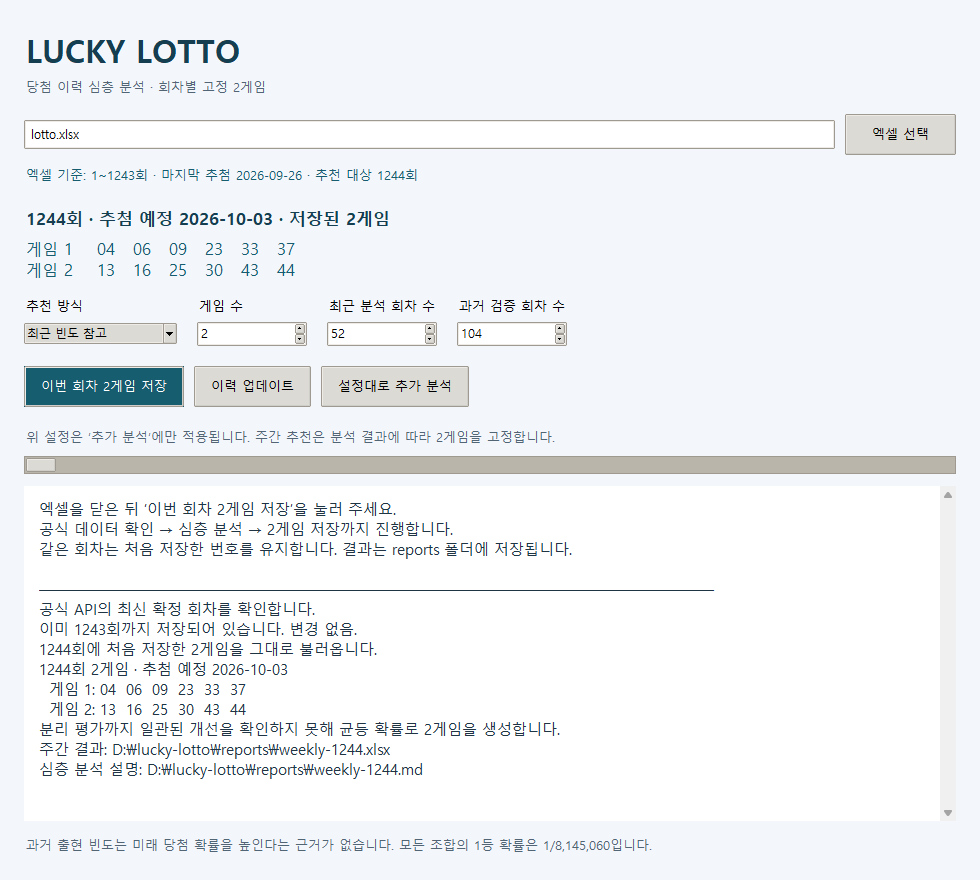
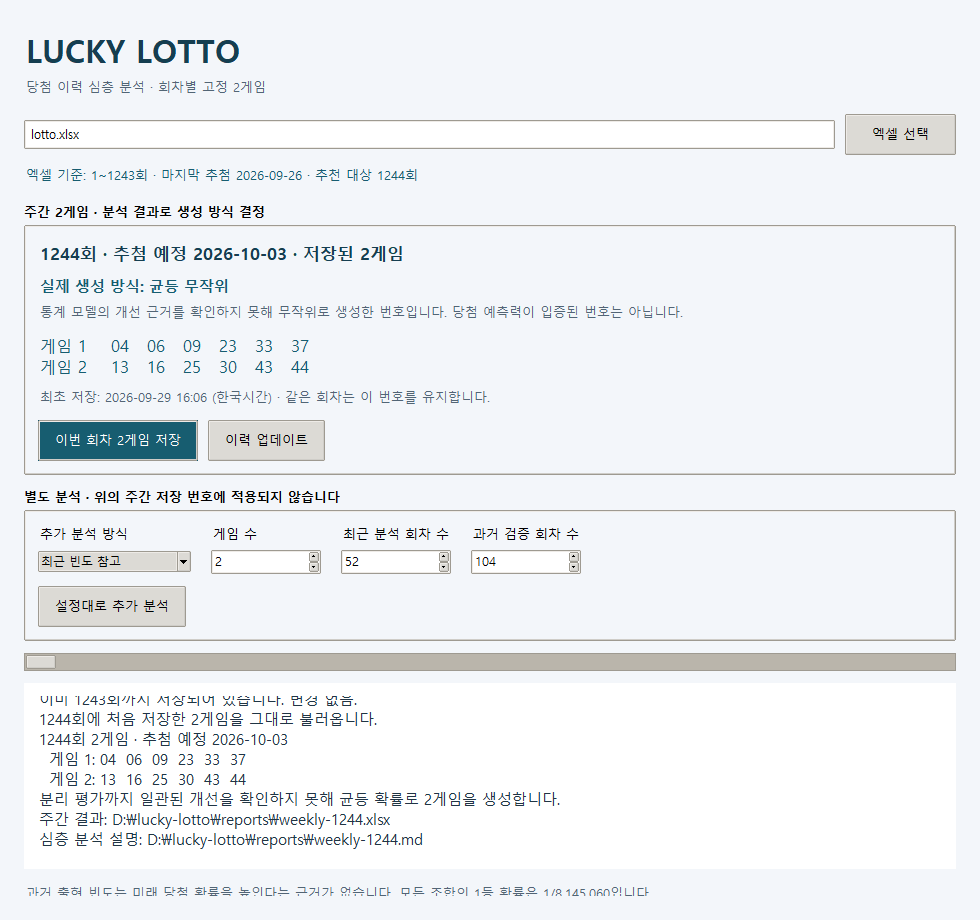
fix: clarify weekly generation and extra analysis settings

diff --git a/lotto_gui.py b/lotto_gui.py
@@ -1,5 +1,6 @@
 """표준 라이브러리 Tkinter로 실행하는 로또 분석 창."""
 
+from datetime import datetime
 from pathlib import Path
 from queue import Empty, Queue
 import threading
@@ -15,13 +16,15 @@ class LottoApp:
         self.events = Queue()
         self.busy = False
         root.title("Lucky Lotto · 당첨 이력과 번호 분석")
-        root.geometry("980x860")
-        root.minsize(880, 760)
+        root.geometry("980x920")
+        root.minsize(880, 840)
         root.configure(bg="#F3F6FA")
         root.protocol("WM_DELETE_WINDOW", self.close)
         style = ttk.Style()
         style.theme_use("clam")
         style.configure("TFrame", background="#F3F6FA")
+        style.configure("TLabelframe", background="#F3F6FA")
+        style.configure("TLabelframe.Label", background="#F3F6FA", font=("맑은 고딕", 10, "bold"))
         style.configure("TLabel", background="#F3F6FA", font=("맑은 고딕", 10))
         style.configure("TButton", font=("맑은 고딕", 10), padding=(14, 9))
         style.configure("Accent.TButton", background="#175D70", foreground="white")
@@ -41,18 +44,34 @@ class LottoApp:
         self.status = tk.StringVar(value="이력을 불러오는 중...")
         ttk.Label(body, textvariable=self.status, foreground="#175D70").pack(anchor="w", pady=(10, 18))
 
+        weekly_box = ttk.LabelFrame(body, text="주간 2게임 · 분석 결과로 생성 방식 결정", padding=12)
+        weekly_box.pack(fill="x", pady=(0, 14))
         self.weekly_title = tk.StringVar(value="이번 회차 2게임")
         self.weekly_numbers = tk.StringVar(value="‘이번 회차 2게임 저장’을 누르면 최신 이력을 확인하고 분석합니다.")
-        ttk.Label(body, textvariable=self.weekly_title, font=("맑은 고딕", 13, "bold"), foreground="#153E50").pack(anchor="w")
-        ttk.Label(body, textvariable=self.weekly_numbers, font=("맑은 고딕", 12), foreground="#175D70").pack(anchor="w", pady=(5, 14))
+        self.weekly_method = tk.StringVar(value="실제 생성 방식: 아직 확인하지 않았습니다.")
+        self.weekly_reason = tk.StringVar(value="통계 모델의 개선 근거가 없으면 균등 무작위로 생성합니다.")
+        self.weekly_saved_at = tk.StringVar(value="같은 회차는 최초 저장 번호를 다시 불러옵니다.")
+        ttk.Label(weekly_box, textvariable=self.weekly_title, font=("맑은 고딕", 13, "bold"), foreground="#153E50").pack(anchor="w")
+        ttk.Label(weekly_box, textvariable=self.weekly_method, font=("맑은 고딕", 11, "bold"), foreground="#175D70").pack(anchor="w", pady=(8, 4))
+        ttk.Label(weekly_box, textvariable=self.weekly_reason, wraplength=780, foreground="#526575").pack(anchor="w")
+        ttk.Label(weekly_box, textvariable=self.weekly_numbers, font=("맑은 고딕", 12), foreground="#175D70").pack(anchor="w", pady=(10, 8))
+        ttk.Label(weekly_box, textvariable=self.weekly_saved_at, foreground="#526575").pack(anchor="w")
+        actions = ttk.Frame(weekly_box)
+        actions.pack(fill="x", pady=(12, 0))
+        self.weekly_button = ttk.Button(actions, text="이번 회차 2게임 저장", style="Accent.TButton", command=self.weekly)
+        self.weekly_button.pack(side="left", padx=(0, 10))
+        self.update_button = ttk.Button(actions, text="이력 업데이트", command=self.update)
+        self.update_button.pack(side="left")
 
-        settings = ttk.Frame(body)
+        extra_box = ttk.LabelFrame(body, text="별도 분석 · 위의 주간 저장 번호에 적용되지 않습니다", padding=12)
+        extra_box.pack(fill="x", pady=(0, 12))
+        settings = ttk.Frame(extra_box)
         settings.pack(fill="x")
         self.mode = tk.StringVar(value=lotto.MODES["recent"])
         self.games = tk.StringVar(value="2")
         self.window = tk.StringVar(value="52")
         self.test_rounds = tk.StringVar(value="104")
-        ttk.Label(settings, text="추천 방식").grid(row=0, column=0, sticky="w", pady=(0, 5))
+        ttk.Label(settings, text="추가 분석 방식").grid(row=0, column=0, sticky="w", pady=(0, 5))
         self.mode_input = ttk.Combobox(settings, textvariable=self.mode, values=list(lotto.MODES.values()), state="readonly", width=19)
         self.mode_input.grid(row=1, column=0, sticky="w", padx=(0, 20))
         self.inputs = [self.path_entry, self.browse, self.mode_input]
@@ -64,21 +83,14 @@ class LottoApp:
             entry.grid(row=1, column=column, sticky="w", padx=(0, 20))
             self.inputs.append(entry)
 
-        actions = ttk.Frame(body)
-        actions.pack(fill="x", pady=20)
-        self.weekly_button = ttk.Button(actions, text="이번 회차 2게임 저장", style="Accent.TButton", command=self.weekly)
-        self.weekly_button.pack(side="left", padx=(0, 10))
-        self.update_button = ttk.Button(actions, text="이력 업데이트", command=self.update)
-        self.update_button.pack(side="left", padx=(0, 10))
-        self.report_button = ttk.Button(actions, text="설정대로 추가 분석", command=self.report)
-        self.report_button.pack(side="left")
+        self.report_button = ttk.Button(extra_box, text="설정대로 추가 분석", command=self.report)
+        self.report_button.pack(anchor="w", pady=(12, 0))
         self.inputs.extend([self.weekly_button, self.update_button, self.report_button])
-        ttk.Label(body, text="위 설정은 ‘추가 분석’에만 적용됩니다. 주간 추천은 분석 결과에 따라 2게임을 고정합니다.", foreground="#526575").pack(anchor="w", pady=(0, 8))
         self.progress = ttk.Progressbar(body, mode="indeterminate")
         self.progress.pack(fill="x", pady=(0, 12))
         self.output = scrolledtext.ScrolledText(body, wrap="word", font=("맑은 고딕", 11),
                                               bg="white", fg="#203544", relief="flat", padx=14, pady=12,
-                                              state="disabled", height=15)
+                                              state="disabled", height=8)
         self.output.pack(fill="both", expand=True)
         ttk.Label(body, text=lotto.NOTICE, wraplength=810, foreground="#526575").pack(anchor="w", pady=(14, 0))
         self.append("엑셀을 닫은 뒤 ‘이번 회차 2게임 저장’을 눌러 주세요.\n공식 데이터 확인 → 심층 분석 → 2게임 저장까지 진행합니다.\n같은 회차는 처음 저장한 번호를 유지합니다. 결과는 reports 폴더에 저장됩니다.\n")
@@ -154,6 +166,23 @@ class LottoApp:
         path = Path(self.path.get())
         self.start(lambda: lotto.create_report(path, games, mode, window, test_rounds=rounds, log=self.log))
 
+    def show_weekly(self, record):
+        from lotto_analysis import MODELS
+
+        evaluation = record["analysis"]["evaluation"]
+        selected = evaluation["selected"]
+        method = "균등 무작위" if selected == "uniform" else f"{MODELS[selected]} 가중 추출"
+        self.weekly_title.set(f"{record['target_round']}회 · 추첨 예정 {record['planned_date']} · 저장된 2게임")
+        self.weekly_method.set(f"실제 생성 방식: {method}")
+        if selected == "uniform":
+            self.weekly_reason.set("통계 모델의 개선 근거를 확인하지 못해 무작위로 생성한 번호입니다. 당첨 예측력이 입증된 번호는 아닙니다.")
+        else:
+            self.weekly_reason.set(evaluation["reason"])
+        self.weekly_numbers.set("\n".join(f"게임 {i}    " + "   ".join(f"{n:02}" for n in ticket)
+                                           for i, ticket in enumerate(record["tickets"], 1)))
+        created_at = datetime.fromisoformat(record["created_at"]).astimezone(lotto.KST)
+        self.weekly_saved_at.set(f"최초 저장: {created_at:%Y-%m-%d %H:%M} (한국시간) · 같은 회차는 이 번호를 유지합니다.")
+
     def poll(self):
         try:
             while True:
@@ -161,9 +190,7 @@ class LottoApp:
                 if kind == "log":
                     self.append(value)
                 elif kind == "weekly":
-                    self.weekly_title.set(f"{value['target_round']}회 · 추첨 예정 {value['planned_date']} · 저장된 2게임")
-                    self.weekly_numbers.set("\n".join(f"게임 {i}    " + "   ".join(f"{n:02}" for n in ticket)
-                                                       for i, ticket in enumerate(value["tickets"], 1)))
+                    self.show_weekly(value)
                 elif kind == "error":
                     self.append(f"오류: {value}\n파일이 열려 있으면 엑셀을 닫고 다시 실행하세요.")
                     messagebox.showerror("작업을 마치지 못했습니다", value)
